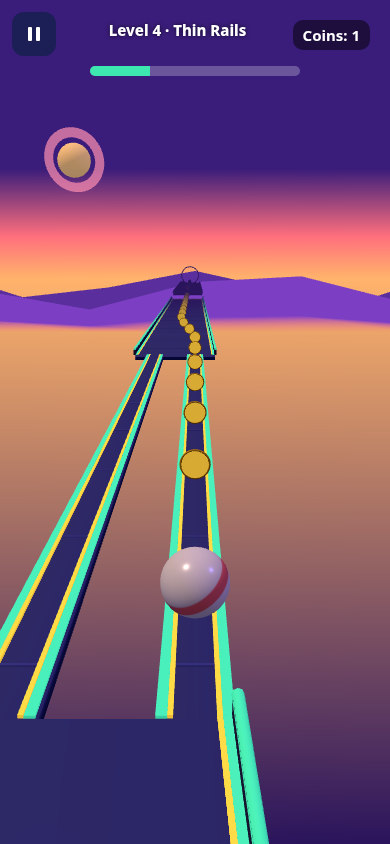
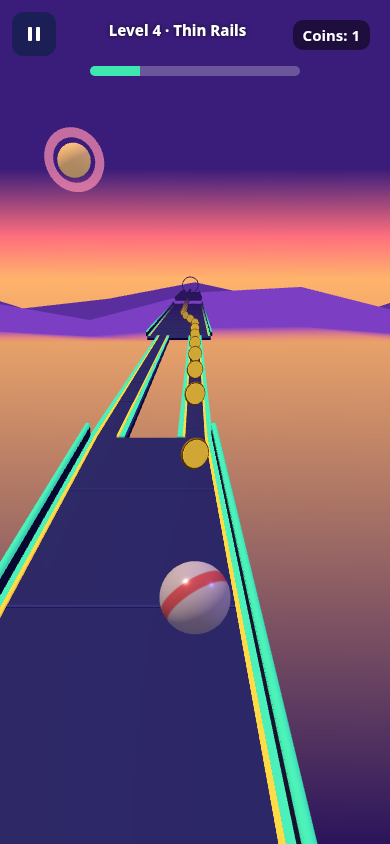
slice-2 hotfix: top speed 16 m/s (single MAX_SPEED), retuned accel/steer/camera lead/pads; cache-bust ?v=16ms-hotfix on scripts

Changed region(s): [[0.0, 0.3081, 1.0, 1.0], [0.3385, 0.0616, 0.4, 0.0924]]

diff --git a/game.js b/game.js
@@ -5,22 +5,24 @@
   const SCREEN_RIGHT_X = -1;
   const BALL_R = 0.45;
   const GRAVITY = 22;
-  const MAX_SPEED = 12;
-  const ACCEL = 12;
-  const BRAKE = 16;
+  // Single cruise-speed knob. Dependents below track it so a retune stays playable.
+  const MAX_SPEED = 16;
+  const ACCEL = MAX_SPEED;
+  const BRAKE = Math.round(MAX_SPEED * 1.3125); // was 16 at 12 m/s
   const ROLL_DRAG = 0.15;
   const COAST_DRAG = 0.55;
-  const DOWNHILL_CAP = 15;
-  const PAD_SPEED = 16;
+  const DOWNHILL_CAP = MAX_SPEED + 4;
+  const PAD_SPEED = MAX_SPEED + 5;
   const PAD_DURATION = 1.2;
-  const LAT_MAX = 6.5;
-  const LAT_RESPONSE = 12;
+  const LAT_MAX = MAX_SPEED * 8.5 / 16; // ~0.53× cruise (was 6.5 at 12)
+  const LAT_RESPONSE = 14;
   const AIR_RESPONSE = 2.5;
   const RESPAWN_S = 2;
   const FIXED_DT = 1 / 120;
   const FALL_Y = -10;
   const INPUT_GRACE = 0.4;
-  const CAMERA_TAU = 0.15;
+  // Lead tau kept so cruise lead ≈ 1.8 m (same framing as the 12 m/s build).
+  const CAMERA_TAU = 0.11;
   // LOOK_SPEC v1.1 camera (matches the reference video)
   const CAM_BEHIND = 8.5;
   const CAM_ABOVE = 4.0;

diff --git a/index.html b/index.html
@@ -226,7 +226,7 @@
         <div class="speed-streak right-streak"></div>
     </div>
 
-    <script src="./vendor/three.min.js"></script>
-    <script src="./game.js"></script>
+    <script src="./vendor/three.min.js?v=16ms-hotfix"></script>
+    <script src="./game.js?v=16ms-hotfix"></script>
 </body>
 </html>
